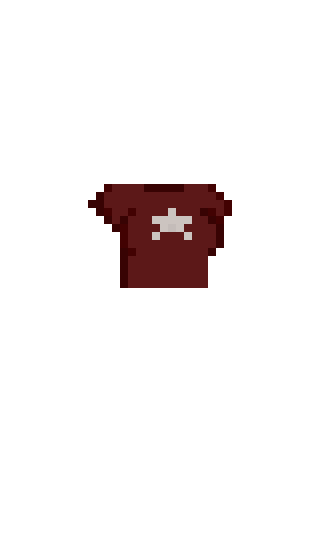
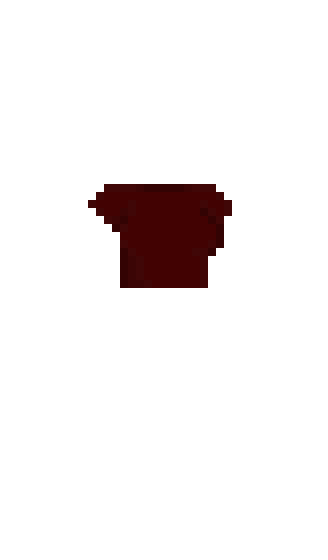
added decal catagory to dressup game

Changed region(s): [[0.3049, 0.3036, 0.7012, 0.5161]]

diff --git a/dressup.js b/dressup.js
@@ -9,9 +9,9 @@ document.addEventListener('DOMContentLoaded', () => {
         brows: 7,
         lips: 15,
         hair: 20,
-        hat: 10,
-        longsleeve: 10,
-        shortsleeve: 11,
+        hat: 11,
+        longsleeve: 14,
+        shortsleeve: 12,
         sleeveless: 3,
         outerwear: 4,
         skirt: 9,
@@ -19,8 +19,9 @@ document.addEventListener('DOMContentLoaded', () => {
         pants: 9,
         overalls: 4,
         socks: 7,
-        shoes: 8,
+        shoes: 9,
         bags: 4,
+        decal: 8,
         plushy: 2
     };
 
@@ -38,12 +39,13 @@ document.addEventListener('DOMContentLoaded', () => {
         pants: 8,
         longsleeve: 9,
         shortsleeve: 9,
-        sleeveless: 9,
-        overalls: 10,
-        outerwear: 11,
-        hat: 12,
-        bags: 13,
-        plushy: 14,
+        decal: 10,
+        sleeveless: 11,
+        overalls: 12,
+        outerwear: 13,
+        hat: 14,
+        bags: 15,
+        plushy: 16,
     };
 
     // generate icons + layers
@@ -121,6 +123,7 @@ document.addEventListener('DOMContentLoaded', () => {
     showSingleItem('#eyes-options button', 'data-eyes');
     showSingleItem('#lips-options button', 'data-lips');
     showSingleItem('#hair-options button', 'data-hair');
+    showSingleItem('#decal-options button', 'data-decal');
     showSingleItem('#shoes-options button', 'data-shoes');
 
     toggleItem('#hat-options button', 'data-hat');

diff --git a/index.html b/index.html
@@ -384,6 +384,10 @@
                     <h2>Shortsleeve</h2>
                     <div class="item-options" id="shortsleeve-options"></div>
                 </section>
+                <section id="decal">
+                    <h2>Decals</h2>
+                    <div class="item-options" id="decal-options"></div>
+                </section>
                 <section class="sleeveless">
                     <h2>Sleeveless</h2>
                     <div class="item-options" id="sleeveless-options"></div>
